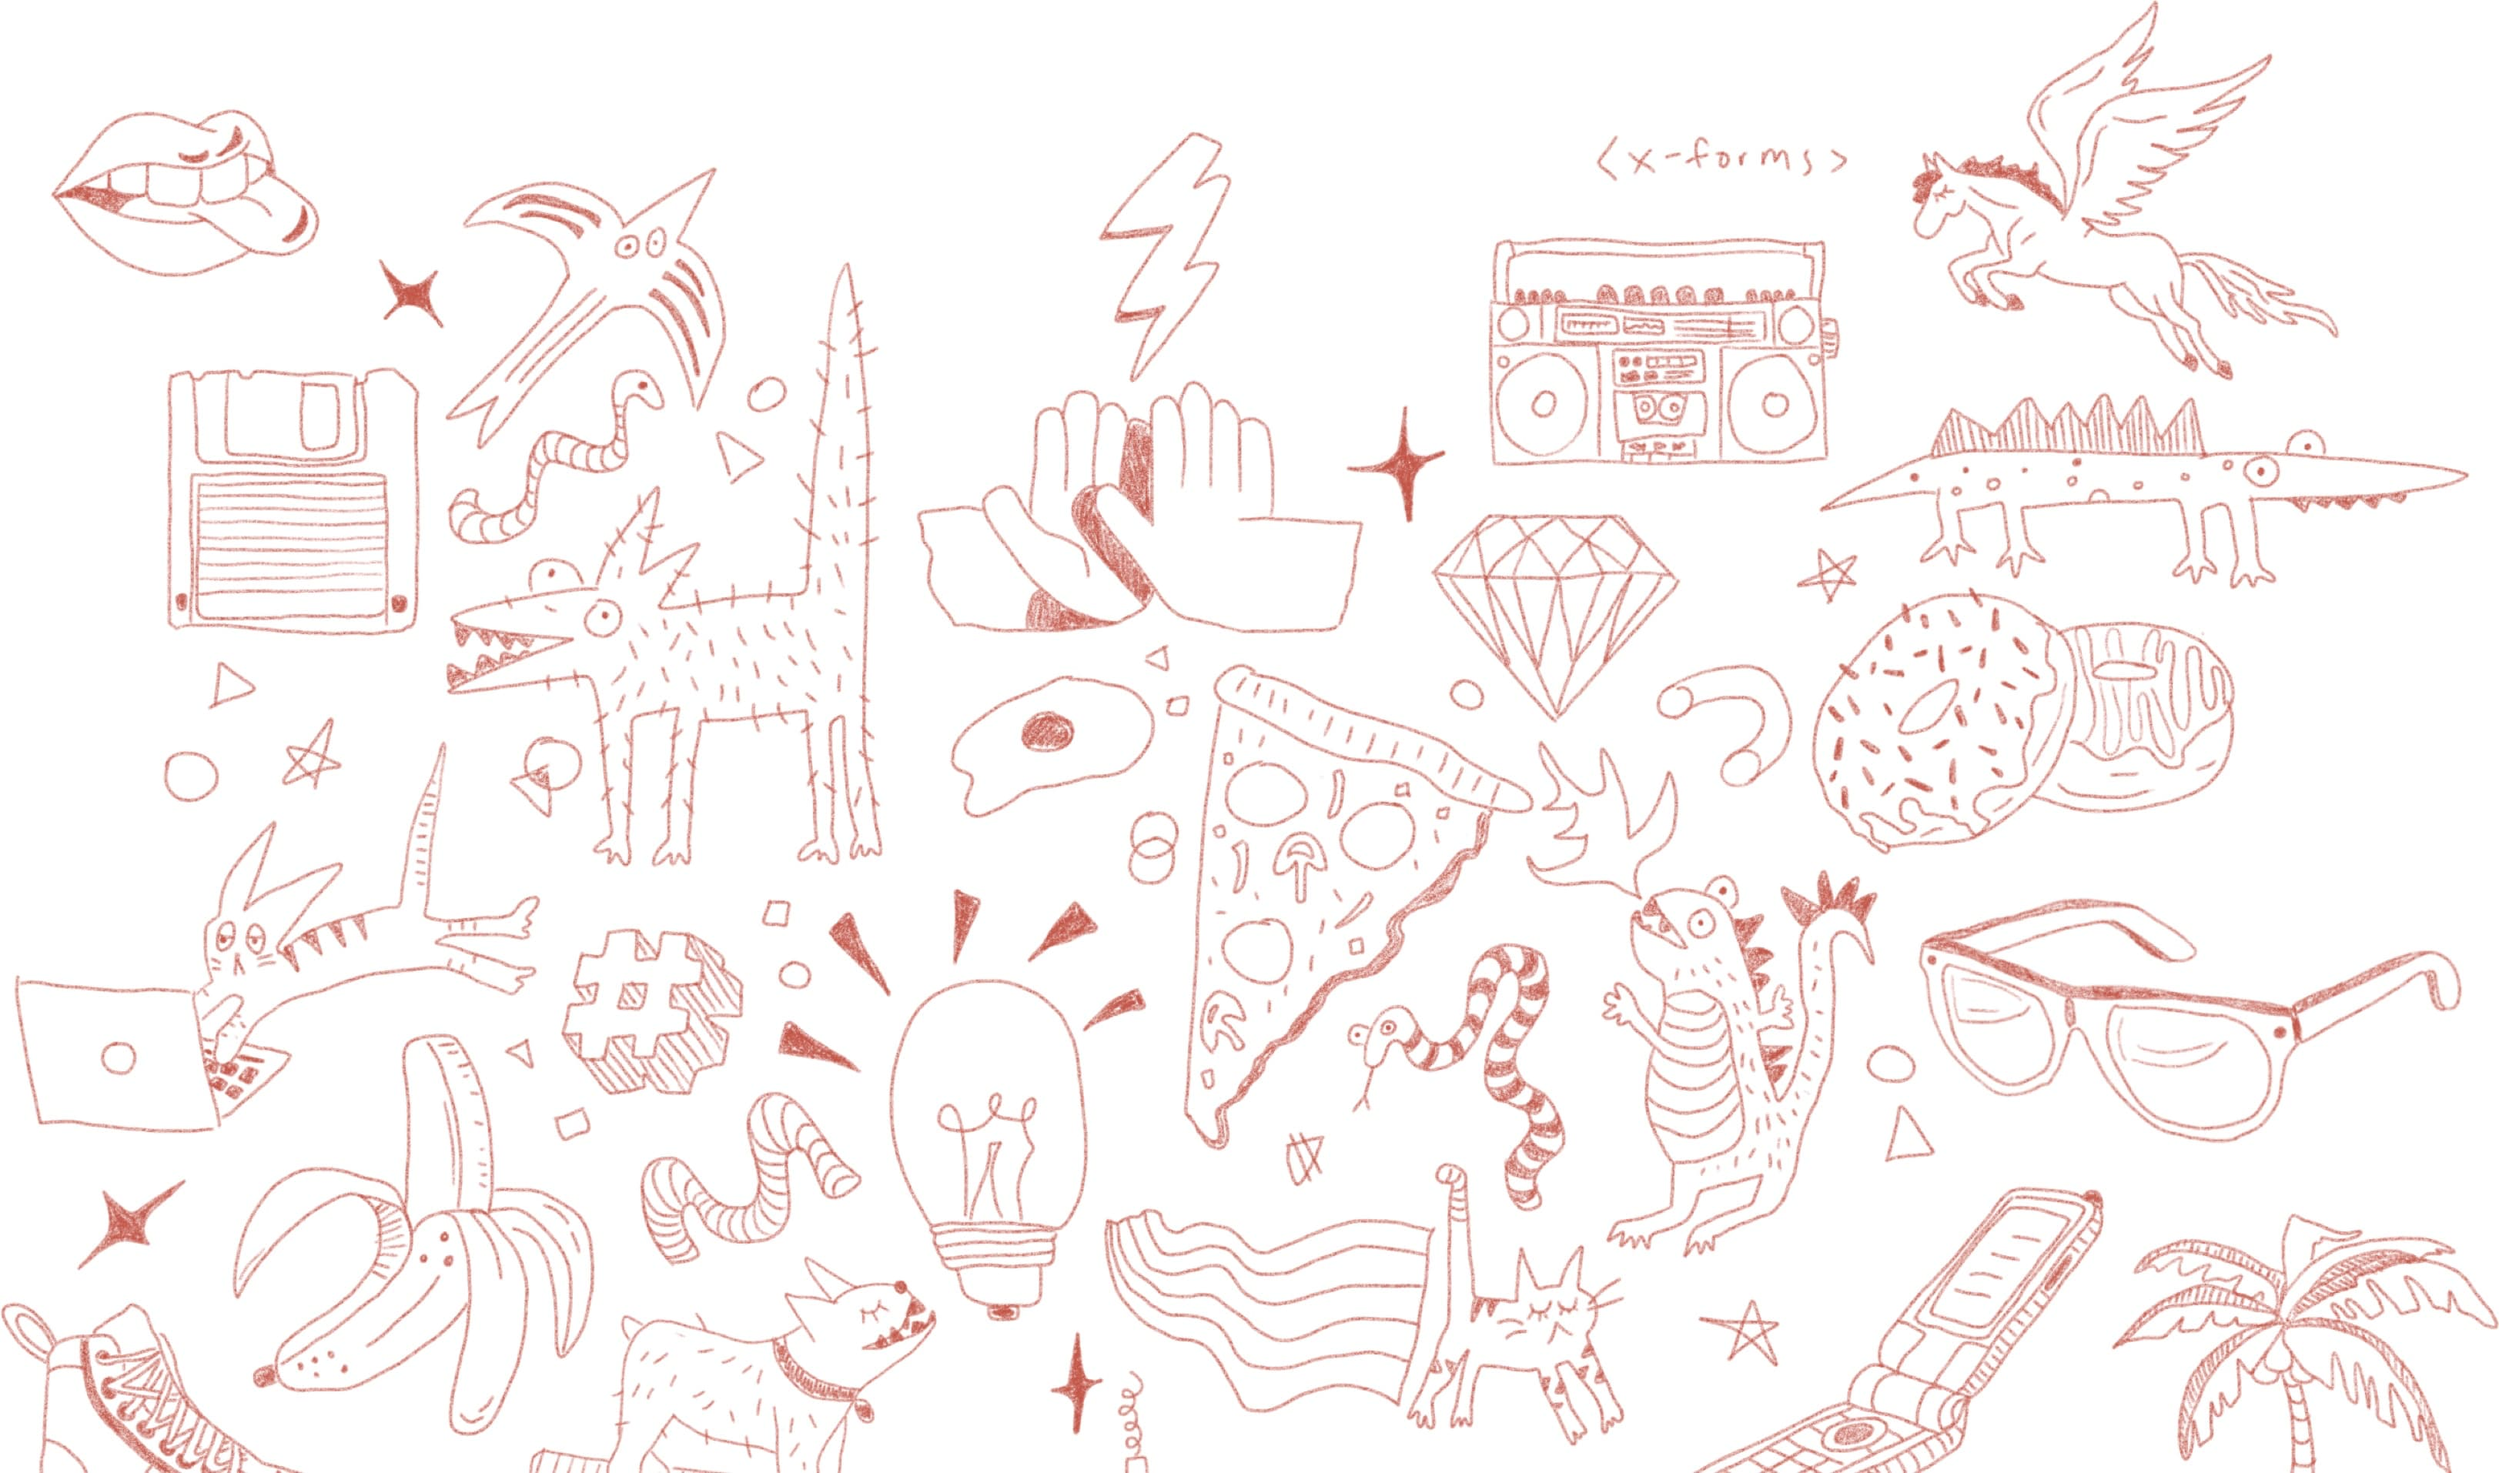
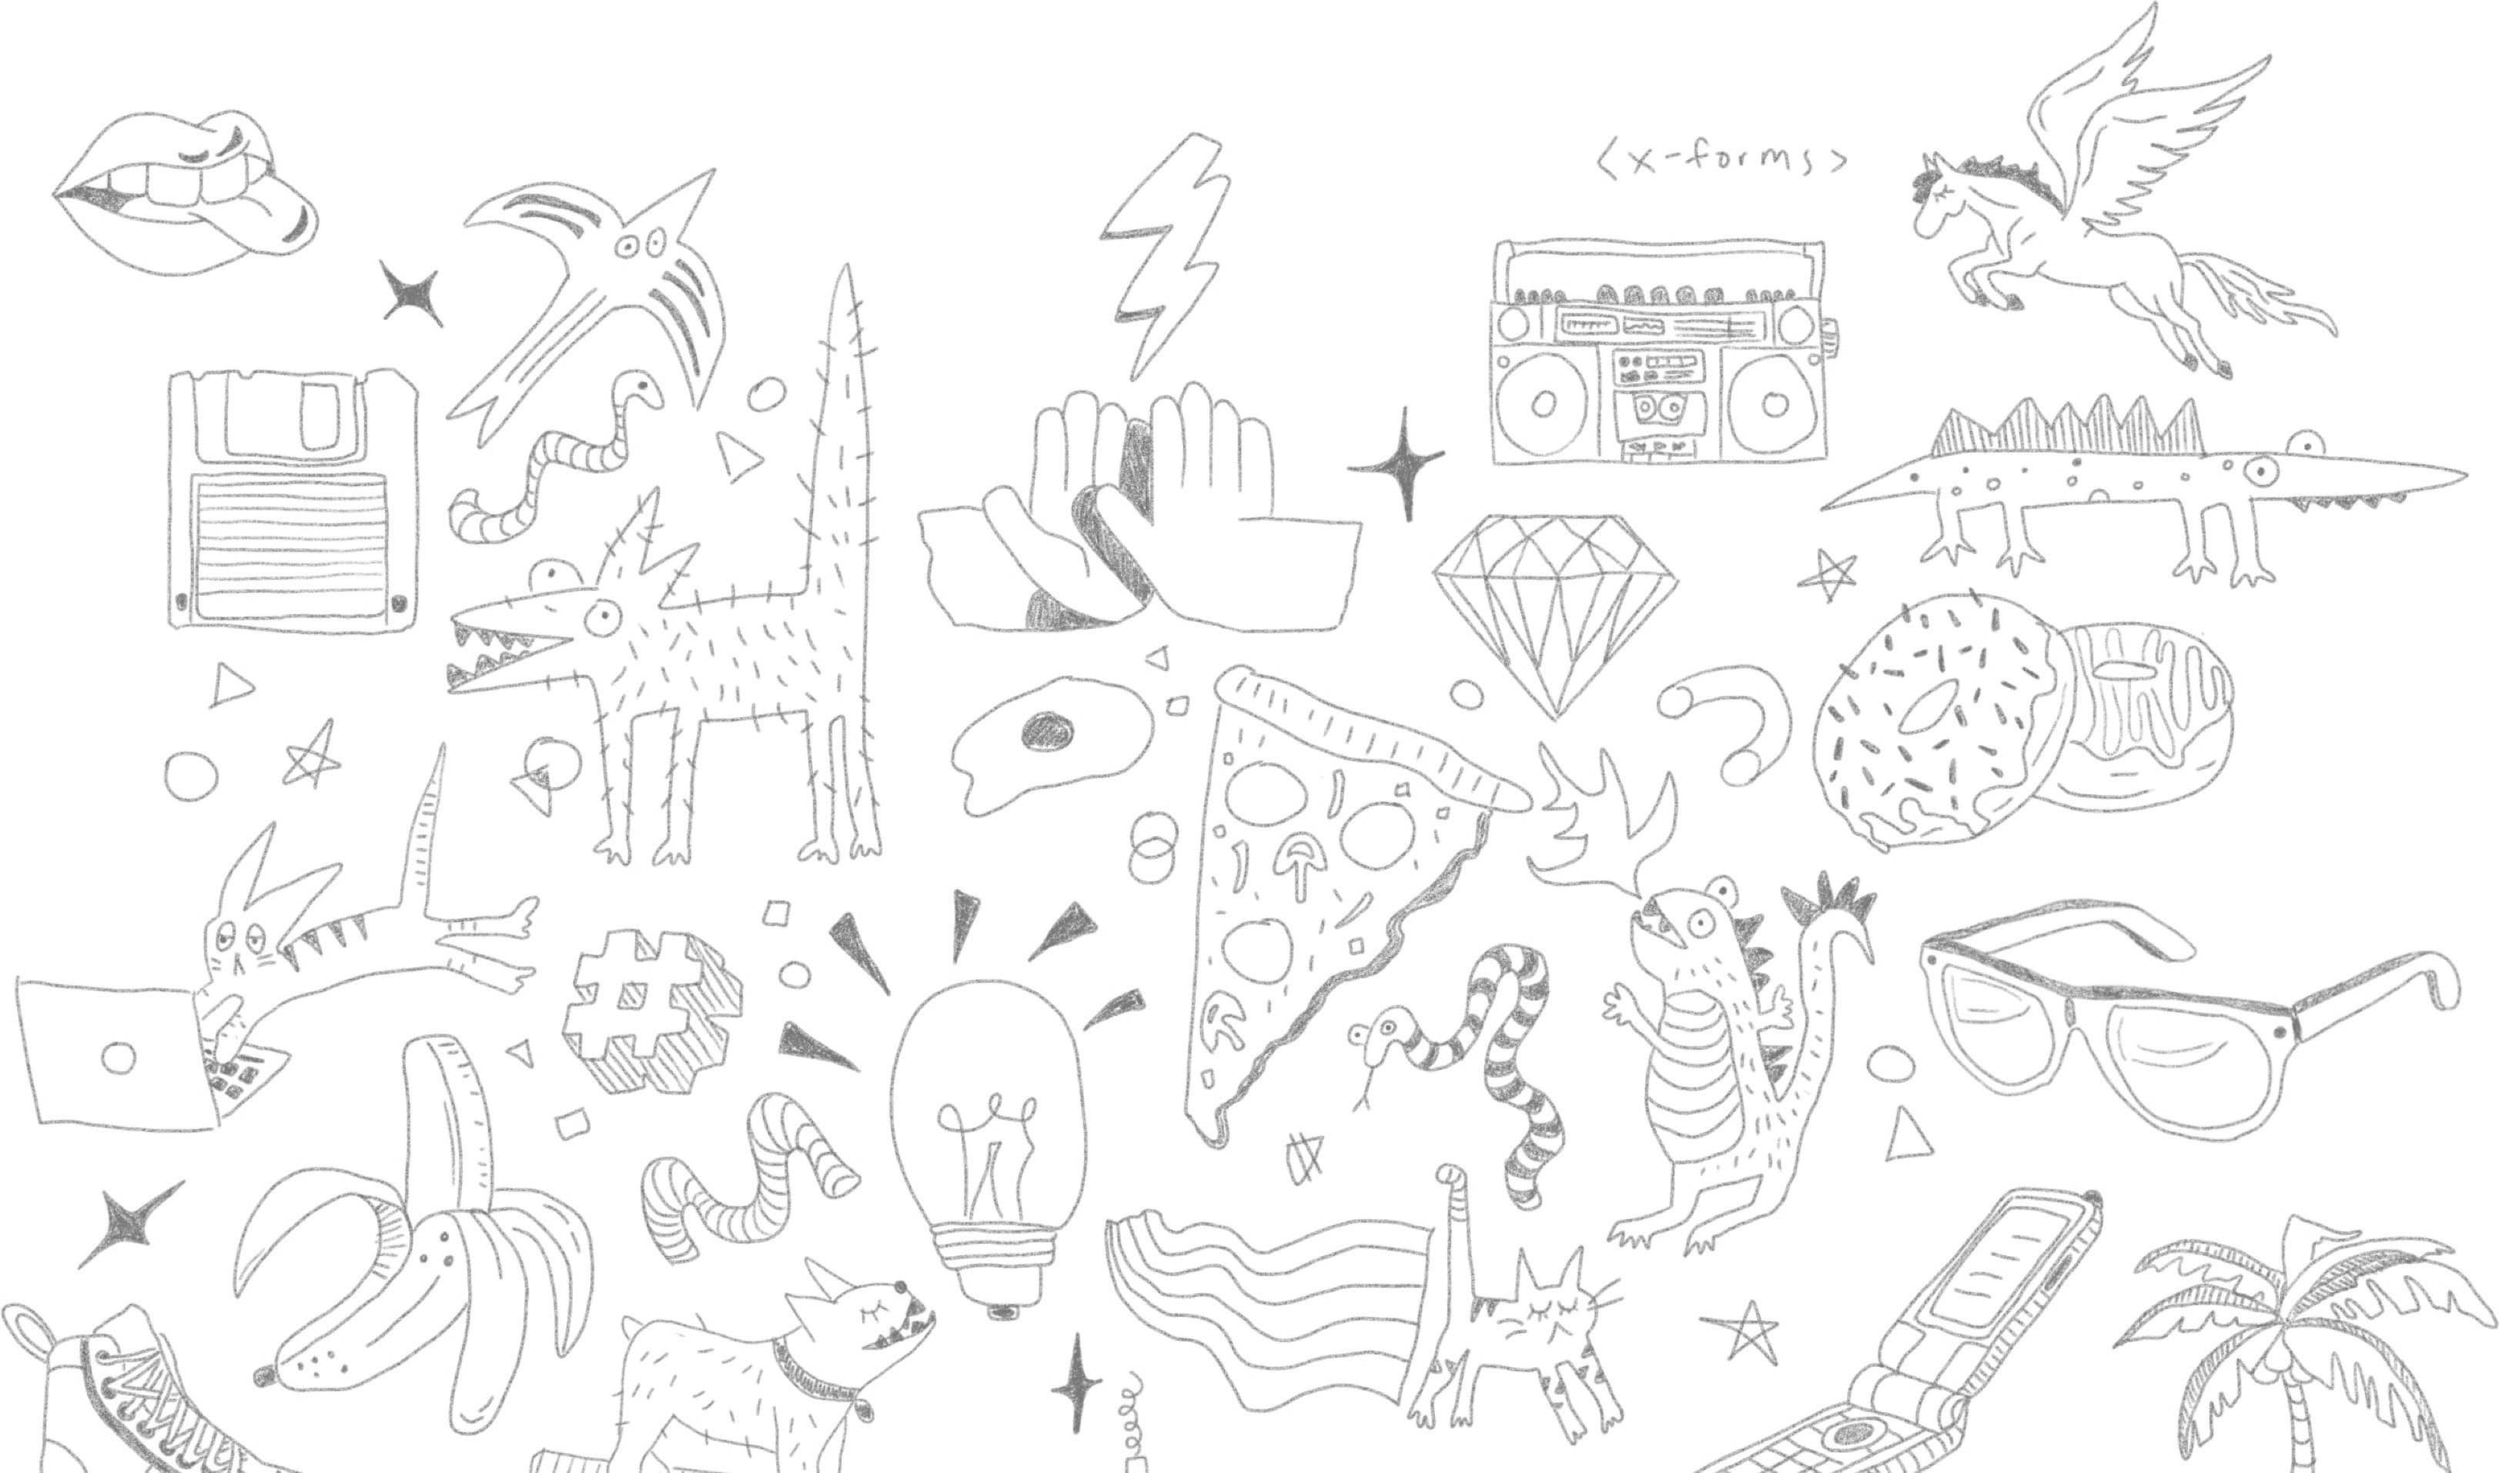
Tweak colours

diff --git a/tailwind.config.js b/tailwind.config.js
@@ -21,7 +21,7 @@ module.exports = {
             fontWeight: theme('fontWeight.light'),
             color: theme('colors.gray.600'),
             h1: {
-              fontWeight: theme('fontWeight.light'),
+              fontWeight: theme('fontWeight.medium'),
               color: theme('colors.primary.700'),
             },
             h2: {

diff --git a/source/_layouts/main.blade.php b/source/_layouts/main.blade.php
@@ -30,7 +30,7 @@
         <div class="relative">
             <div class="px-6 pb-32 md:pb-64">
                 <div class="max-w-screen-lg mx-auto space-y-5 text-center lg:space-y-10">
-                    <h1 class="text-4xl text-secondary-600 md:text-5xl lg:text-6xl xl:text-7xl">The elegant TALL stack admin panel for Laravel artisans.</h1>
+                    <h1 class="text-4xl text-primary-700 font-medium md:text-5xl lg:text-6xl xl:text-7xl">The elegant TALL stack admin panel for Laravel artisans.</h1>
                     <div class="mx-auto max-w-prose">
                         <p class="sm:text-lg md:text-xl">{{ $page->siteDescription }}</p>
                     </div>
@@ -42,7 +42,7 @@
 @endsection
 
 @section('main')
-    <div class="py-12 space-y-12 text-white md:py-24 lg:py-32 bg-primary-900 md:space-y-24">
+    <div class="py-12 space-y-12 text-white md:py-24 lg:py-32 bg-primary-600 md:space-y-24">
         @yield('content')
     </div>
 @endsection
